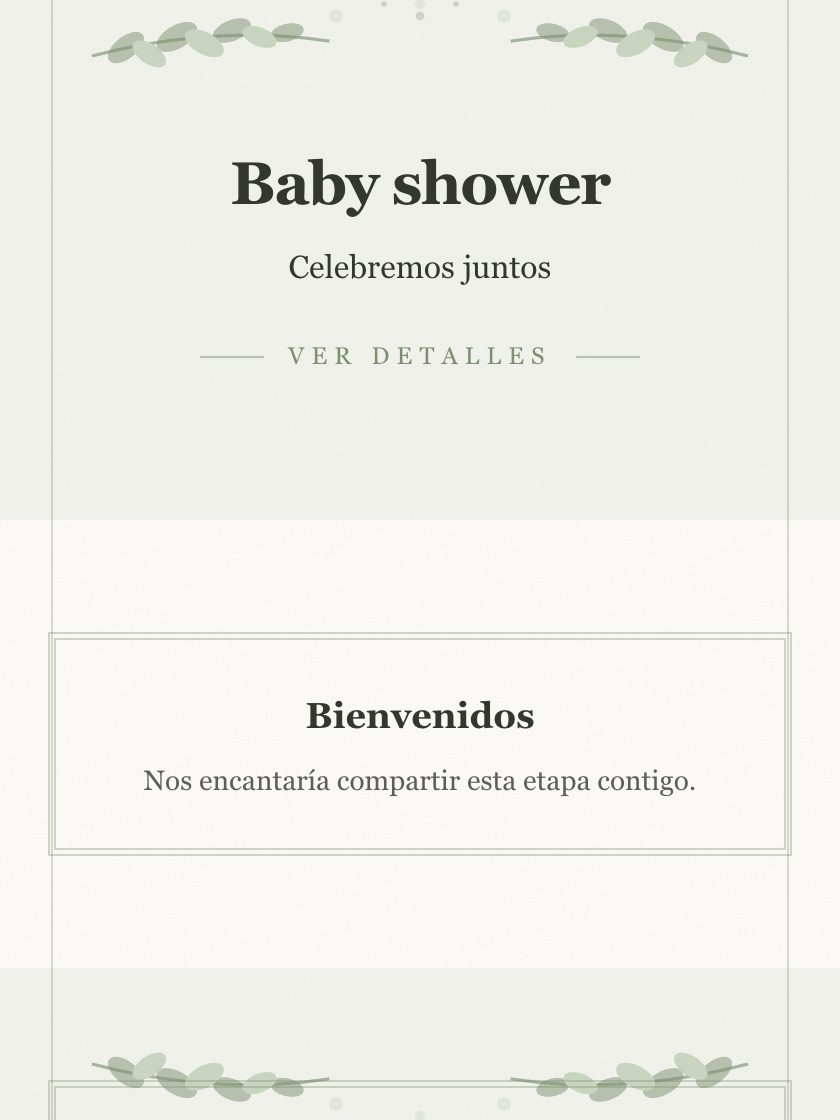
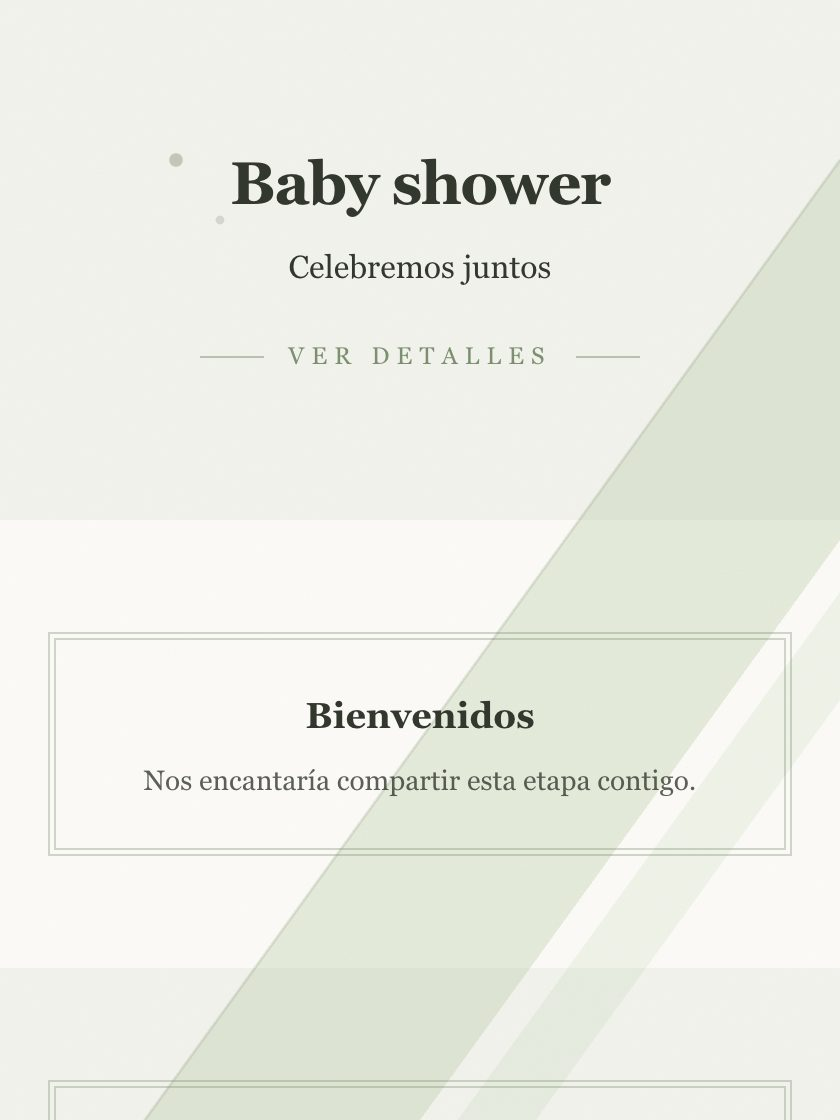
feat(arte): la DIAGONAL escalada a 10, con una variante distinta por pieza
El dev eligió la arquitectura A del piloto y pidió escalarla a las 10
candidatas. Se escala la ARQUITECTURA, no la pieza: poner la misma diagonal
diez veces recrea el defecto un nivel arriba —es la lección «uniformar para
arreglar un defecto crea el defecto de la uniformidad»—. Avisado al dev al
empezar, y hecho así salvo que diga lo contrario.

## Las 10, cada una con su firma

Firma = (sentido, pendiente, número de cintas). Comprobado mecánicamente en el
generador: **10 firmas distintas de 10**, 5 ascendentes y 5 descendentes.

  baby-shower-neutro              asc pronunciada, dos bandas
  corporativo-conferencia-agenda  desc pronunciada, TRES rayas finas
  cumpleanos-galaxia              asc pronunciada, banda ancha
  xv-con-sesion                   desc muy suave, banda única con filete de oro
  corporativo-completo            asc media
  baby-shower                     desc media, dos bandas desiguales
  boda-carta-romantica            asc media, banda muy ancha SIN filete
  xv-manuscrita                   desc muy pronunciada, cinta fina sobre pálida
  boda-destino                    asc media-alta, banda única
  boda-en-la-playa                desc suave, dos cintas iguales separadas

Los DOS pares que comparten paleta exacta van en sentidos OPUESTOS a
propósito, porque ahí la geometría es lo único que los separa:
`corporativo-completo` (asc) contra `corporativo-conferencia-agenda` (desc), y
`boda-destino` (asc) contra `boda-en-la-playa` (desc).

## Medido
[…]

diff --git a/src/lib/invitations/template-preview.ts b/src/lib/invitations/template-preview.ts
@@ -67,4 +67,4 @@ export const ESCALA_CAPTURA = 2;
  * optimizador y la del navegador, y evita tener que renombrar 50 archivos o
  * volver a escribir 50 URLs en la BD en cada regeneración.
  */
-export const REVISION_MINIATURAS = "202609100056";
+export const REVISION_MINIATURAS = "202609100107";
